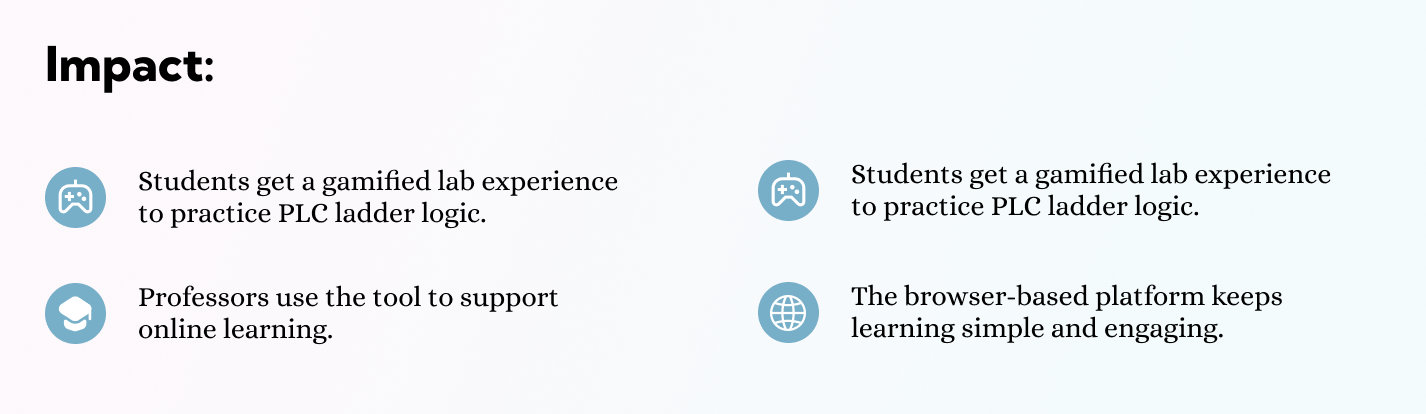
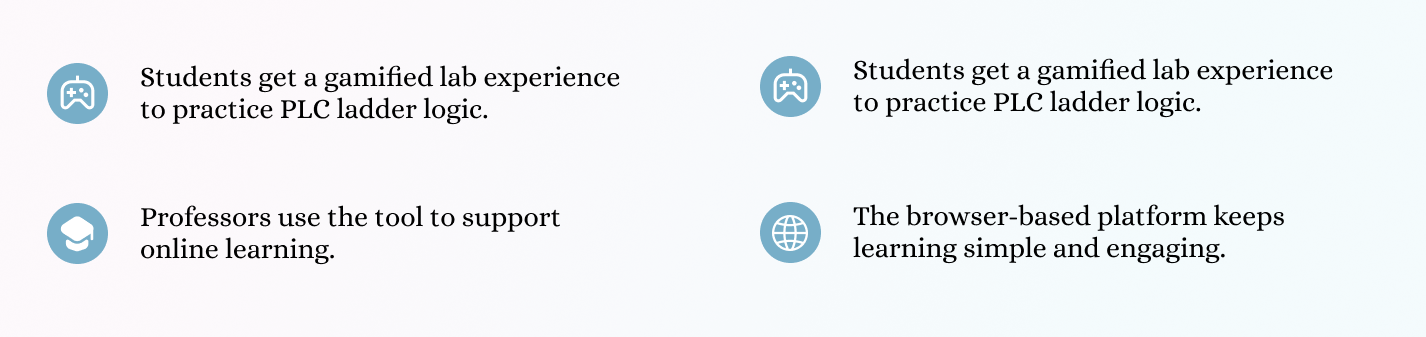
updated case5

diff --git a/case5.html b/case5.html
@@ -256,29 +256,30 @@
                   Autem ipsum nam porro corporis rerum. Quis eos dolorem eos itaque inventore commodi labore </p>
               </div>
             </div>
-        
+            <br><br>
 
         <div class="row bg-light case">
-          <h4 class="space">User Persona </h4>
+          <h4 class="space">Problem Space</h4>
           <p class="text-muted space">
             Autem ipsum nam porro corporis rerum. Quis eos dolorem eos itaque inventore commodi labore quia quia. Exercitationem repudiandae officiis neque suscipit non officia eaque itaque enim. Voluptatem officia accusantium nesciunt est omnis tempora consectetur dignissimos. Sequi nulla at esse enim cum deserunt eius.
-          </p>
-          <br>
+          <br><br> </p>
+          
           <div class="row justify-content-center">
             <div class="col-md-6">
-              <img class="img-fluid " src="img\portfolio\selective-focus-iphone.jpg" alt="" >
-              <br> <br>
-              <p class="text-muted">
-                Autem ipsum nam porro corporis rerum. Quis eos dolorem eos itaque inventore commodi labore </p>
+                  <ol class="text-muted">
+                    <li>myMaintenance </li>
+                    <li>myService</li>
+                    <li>myBombardier  </li>
+                    <li>myService</li>
+                    <li>myBombardier  </li>
+                  </ol>
             </div>
             <div class="col-md-6">
               <img class="img-fluid " src="img\portfolio\selective-focus-iphone.jpg" alt="">
-              <br> <br>
-              <p class="text-muted">
-                Autem ipsum nam porro corporis rerum. Quis eos dolorem eos itaque inventore commodi labore </p>
             </div>
           </div>
         </div>
+        <br><br>
 
 
 
@@ -309,20 +310,52 @@
           <br><br> 
        <br> <br> -->
 
+      <!--Start of heading -->
+      <div class="case" id="detail">
+        <h3 class=" ">The Solution</h3>
+        <img  class="img-fluid" src="img/lime.png" style="width: 50%">
+      
+      <br> <br> 
+      <!--end of heading -->
+            <div class="row ">
+              <div class="col-md-12">
+              <div class="p-4 text-center" >
+                    <h5 class="mb-3">Watch: FABLAB AR Video</h5>
+                    <div class="embed-responsive embed-responsive-16by9" >
+                    <iframe class="embed-responsive-item" src="img/case4/LFCapstoneV2.mp4" allowfullscreen></iframe>
+                    </div>
+                    <br>
+                    <p class="text-muted" >AR experience of FabLab using adobe Aero.</p>
+                  </div>
+              </div>
+            </div>
+
+          <div class="row">
+            <div class="col-md-12">
+            <h5>Impact:</h5>
+              <div class="col-md-12">
+                <img class="img-fluid " src="img\case5\object1.png" alt="" style="border-radius: 2rem" >
+                <br> <br>
+               </div>
+            </div>
+          </div>
+
+          </div>
+          </div>
+
        <!--Start of heading -->
        <div class="case " id="detail">
-        <h3 class=" ">Journey mapping</h3> </h3>
+        <h3 class=" ">Process/Brainstorm</h3> </h3>
           <img  class="img-fluid" src="img/lime.png" style="width: 50%">
           <div class="col-md-12" >
             <br>
             <img class="img-fluid " src="img\case3\flow.jpeg" alt="" >
             <p class="text-muted"> This internship helped shape how I think about building scalable, user-first products. I learned how to lead design through ambiguity, align with engineering and product goals, and balance MVP scope with user impact. It also deepened my interest in product management as a career path.
-              </p>
-              <ul class="text-muted">
-                <li>myMaintenance – A mobile app for aircraft maintenance teams</li>
-                <li>myService – A customer support app launched on the App Store</li>
-                <li>myBombardier (Partnership Portal) – A new internal platform to manage third-party partnerships and ad campaigns</li>
-              </ul>
+            <br><br></p>
+
+            <img class="img-fluid " src="img\case3\flow.jpeg" alt="" >
+            <p class="text-muted"> This internship helped shape how I think about building scalable, user-first products. I learned how to lead design through ambiguity, align with engineering and product goals, and balance MVP scope with user impact. It also deepened my interest in product management as a career path.
+            <br><br></p>
          </div>
       </div>
       <br>
@@ -330,100 +363,102 @@
 
     <!--end of heading -->
 
-      <!--Start of heading -->
+         <!--Start of heading -->
       <div class="case" id="detail">
-        <h3 class=" ">Design System</h3>
+        <h3 class=" ">Design process</h3>
         <img  class="img-fluid" src="img/lime.png" style="width: 50%">
       
       <br> <br> 
       <!--end of heading -->
       
-          <div class="row">
+          <div class="row" style="padding-bottom: 1rem;">
+            <div class="col-md-6" >
+            <h6>Figma design</h6>
+          <p class="text-muted">
+            The assembly line table was designed as a modular component in Blender, allowing students to interact with objects in sequence—similar to real-world factory workflows. This process involved building, texturing, and exporting individual parts that could later be manipulated in the browser. The design mimicked real assembly tasks while keeping gameplay intuitive and accessible.
+          </p>
+            </div>
             <div class="col-md-6 " >
-            <h6>2. myBombardier</h6>
-            <p class="text-muted">
-              Autem ipsum nam porro corporis rerum. Quis eos dolorem eos itaque inventore commodi labore quia quia. Exercitationem repudiandae officiis neque suscipit non officia eaque itaque enim. Voluptatem officia accusantium nesciunt est omnis tempora consectetur dignissimos. Sequi nulla at esse enim cum deserunt eius.
+            <img class="img-fluid " src="img\case4\img150.png" alt="" style="border-radius: 5%;">
+            </div>
+          </div>
 
+
+            <div class="row" style="padding-bottom: 1rem;">
+            <div class="col-md-6 " >
+            <h6>Fusion CAD Design</h6>
+            <p class="text-muted">
+              To create an immersive environment, I used Blender to model the overall 3D landscape, including terrain, lighting, and object placement. The focus was on balancing realism with performance so that the exported scene could run smoothly in Three.js. This step set the foundation for user navigation and interaction in the virtual lab space.
             </p>
             </div>
             <div class="col-md-6 " >
-              <h6>1. Roadmap</h6>
-          <p class="text-muted space">
-            Autem ipsum nam porro corporis rerum. Quis eos dolorem eos itaque inventore commodi labore quia quia. Exercitationem repudiandae officiis neque suscipit non officia eaque itaque enim. Voluptatem officia accusantium nesciunt est omnis tempora consectetur dignissimos. Sequi nulla at esse enim cum deserunt eius.
-          </p>
+            <img class="img-fluid " src="img\case4\img149.png" alt="" style="border-radius: 5%;">
             </div>
           </div>
+
+            <div class="row" style="padding-bottom: 1rem;">
+            <div class="col-md-6 " >
+            <h6>Adobe AERO</h6>
+            <p class="text-muted">
+              To make the virtual space feel closer to an in-person lab, I applied materials and color textures to the landscape. This included adjusting surfaces, shading, and colors to give the environment a realistic look while still being optimized for browser rendering.
+            </p>
+            </div>
+            <div class="col-md-6 " >
+            <img class="img-fluid " src="img\case4\img151.png" alt="" style="border-radius: 5%;">
+            </div>
           </div>
-          <br> <br>
-           <!--Start of heading -->
+
+
+          </div> <!-- end of case -->
+          <br> 
+
+
+         <!--Start of heading -->
             <div class="case" id="detail">
-              <h3 class=" ">Prototypes</h3>
+              <h3 class=" ">Features</h3>
               <img  class="img-fluid" src="img/lime.png" style="width: 50%">
             <br> <br> 
-            <!--end of heading -->
+            <!--end of heading -->  
 
         <div class="row">
+          <!-- first section  -->
+          <div class="col-md-6 " style="padding-bottom: 1rem;">
+            <img class="img-fluid " src="img\case4\mec2.png" alt="" style="border-radius: 5%;">
+          </div>
           <div class="col-md-6 " >
-          <h6>3. myBombardier</h6>
+          <h6>Machine Descriptions</h6>
           <p class="text-muted">
-            Autem ipsum nam porro corporis rerum. Quis eos dolorem eos itaque inventore commodi labore quia quia. Exercitationem repudiandae officiis neque suscipit non officia eaque itaque enim. Voluptatem officia accusantium nesciunt est omnis tempora consectetur dignissimos. Sequi nulla at esse enim cum deserunt eius.
-            <ul class="text-muted">
-              <li>myMaintenance – A mobile app for aircraft maintenance teams</li>
-              <li>myBombardier (Partnership )</li>
+            Students interact with a simplified PLC (Programmable Logic Controller) simulation that mimics real-world automation tasks. The game mechanics guide students through activating switches, sequencing processes, and controlling basic inputs/outputs, helping them apply theory in a hands-on way. This mechanic reinforces core automation skills while making the experience engaging and intuitive.
+          </div>
+
+            <div class="col-md-6 " style="padding-bottom: 1rem;">
+            <img class="img-fluid " src="img\case4\mec1.png" alt="" style="border-radius: 5%;">
+          </div>
+          <div class="col-md-6 " >
+          <h6>Projects Display</h6>
+          <p class="text-muted">
+            To mirror real life, we designed a silhouette of the actual lab director and made him the in-game character who assigns you quests. He’s the one who gives players their PLC tasks to complete, adding both authenticity and a playful touch. This easter egg connected the simulation back to campus life, making the experience feel personal and fun while still guiding students through their work.
+            </p>
+          </p>
+          </div>
+
+
+          <div class="col-md-6 " >
+            <img class="img-fluid " src="img\case4\mec3.png" alt="" style="border-radius: 5%;">
+          </div>
+          <div class="col-md-6 " >
+          <h6>Old Room Design</h6>
+          <p class="text-muted">
+            To keep the experience playful and memorable, a light-hearted “avoiding geese” mechanic was added. Students must navigate around obstacles like geese while completing their assembly-line tasks. This injects humor and unpredictability into the simulation, keeping engagement high while subtly reinforcing focus and multitasking skills.            <ul class="text-muted">
+              <li>When hit by a goose, the player loses a life and the game restarts.</li>
+              <li>Player can use the attack action to repel geese and clear your path.</li>
             </ul>
           </p>
           </div>
-          <div class="col-md-6 " >
-            <img class="img-fluid " src="img\portfolio\selective-focus-iphone.jpg" alt="" style="border-radius: 5%;">
           </div>
-        </div>
           <br>
           </div>
-          <h5 class="case2">Wireframes </h5>
-          <div class="row case2">
-            <div class="col-md-4" >
-              <img class="img-fluid " src="img\portfolio\selective-focus-iphone.jpg" alt="" style="border-radius: 5%;">
-              <br> <br>
-              <p class="text-muted">
-                Autem ipsum nam porro corporis rerum. Quis eos dolorem eos itaque inventore commodi labore </p>
-            </div>
-            <div class="col-md-4 " >
-              <img class="img-fluid " src="img\portfolio\selective-focus-iphone.jpg" alt="" style="border-radius: 5%;">
-              <br> <br>
-              <p class="text-muted">
-                Autem ipsum nam porro corporis rerum. Quis eos dolorem eos itaque inventore commodi labore </p>
-            </div>
-            <div class="col-md-4" >
-              <img class="img-fluid " src="img\portfolio\selective-focus-iphone.jpg" alt="" style="border-radius: 5%;">
-              <br> <br>
-              <p class="text-muted">
-                Autem ipsum nam porro corporis rerum. Quis eos dolorem eos itaque inventore commodi labore </p>
-            </div>
-          </div>
-          
-          <br> <br>
 
-          <h5 class="case2">Low-fidelity  </h5>
-          <div class="row case2">
-            <div class="col-md-4" >
-              <img class="img-fluid " src="img\portfolio\selective-focus-iphone.jpg" alt="" style="border-radius: 5%;">
-              <br> <br>
-              <p class="text-muted">
-                Autem ipsum nam porro corporis rerum. Quis eos dolorem eos itaque inventore commodi labore </p>
-            </div>
-            <div class="col-md-4 " >
-              <img class="img-fluid " src="img\portfolio\selective-focus-iphone.jpg" alt="" style="border-radius: 5%;">
-              <br> <br>
-              <p class="text-muted">
-                Autem ipsum nam porro corporis rerum. Quis eos dolorem eos itaque inventore commodi labore </p>
-            </div>
-            <div class="col-md-4" >
-              <img class="img-fluid " src="img\portfolio\selective-focus-iphone.jpg" alt="" style="border-radius: 5%;">
-              <br> <br>
-              <p class="text-muted">
-                Autem ipsum nam porro corporis rerum. Quis eos dolorem eos itaque inventore commodi labore </p>
-            </div>
-          </div>
 
             <!--Start of heading -->
             <br> <br>
@@ -475,25 +510,23 @@
 
             <!--Start of heading -->
               <div class="case " id="detail">
-                <h3 class=" ">Reflection</h3> </h3>
+                <h3 class=" ">Learnings</h3> </h3>
                   <img  class="img-fluid" src="img/lime.png" style="width: 50%">
                   <div class="col-md-12" >
                     <p class="text-muted"> This internship helped shape how I think about building scalable, user-first products. I learned how to lead design through ambiguity, align with engineering and product goals, and balance MVP scope with user impact. It also deepened my interest in product management as a career path.
                       </p>
-                      <ul class="text-muted">
-                        <li>myMaintenance – A mobile app for aircraft maintenance teams</li>
-                        <li>myService – A customer support app launched on the App Store</li>
-                        <li>myBombardier (Partnership Portal) – A new internal platform to manage third-party partnerships and ad campaigns</li>
-                      </ul>
+
                       <br><br> 
 
                   <h6>Next Steps</h6>
+                  <p class="text-muted"> This internship helped shape how I think about building scalable, user-first products. I learned how to lead design through ambiguity, align with engineering and product goals, and balance MVP scope with user impact. It also deepened my interest in product management as a career path.
+                  </p>
                   <br>
-                  <ol class="text-muted">
-                    <li>myMaintenance – A mobile app for aircraft maintenance teams</li>
-                    <li>myService – A customer support app launched on the App Store</li>
-                    <li>myBombardier (Partnership Portal) – A new internal platform to manage third-party partnerships and ad campaigns</li>
-                  </ol>
+
+                  <h6>Next Steps</h6>
+                  <p class="text-muted"> This internship helped shape how I think about building scalable, user-first products. I learned how to lead design through ambiguity, align with engineering and product goals, and balance MVP scope with user impact. It also deepened my interest in product management as a career path.
+                  </p>
+                  <br>
  
                  </div>
               </div>
